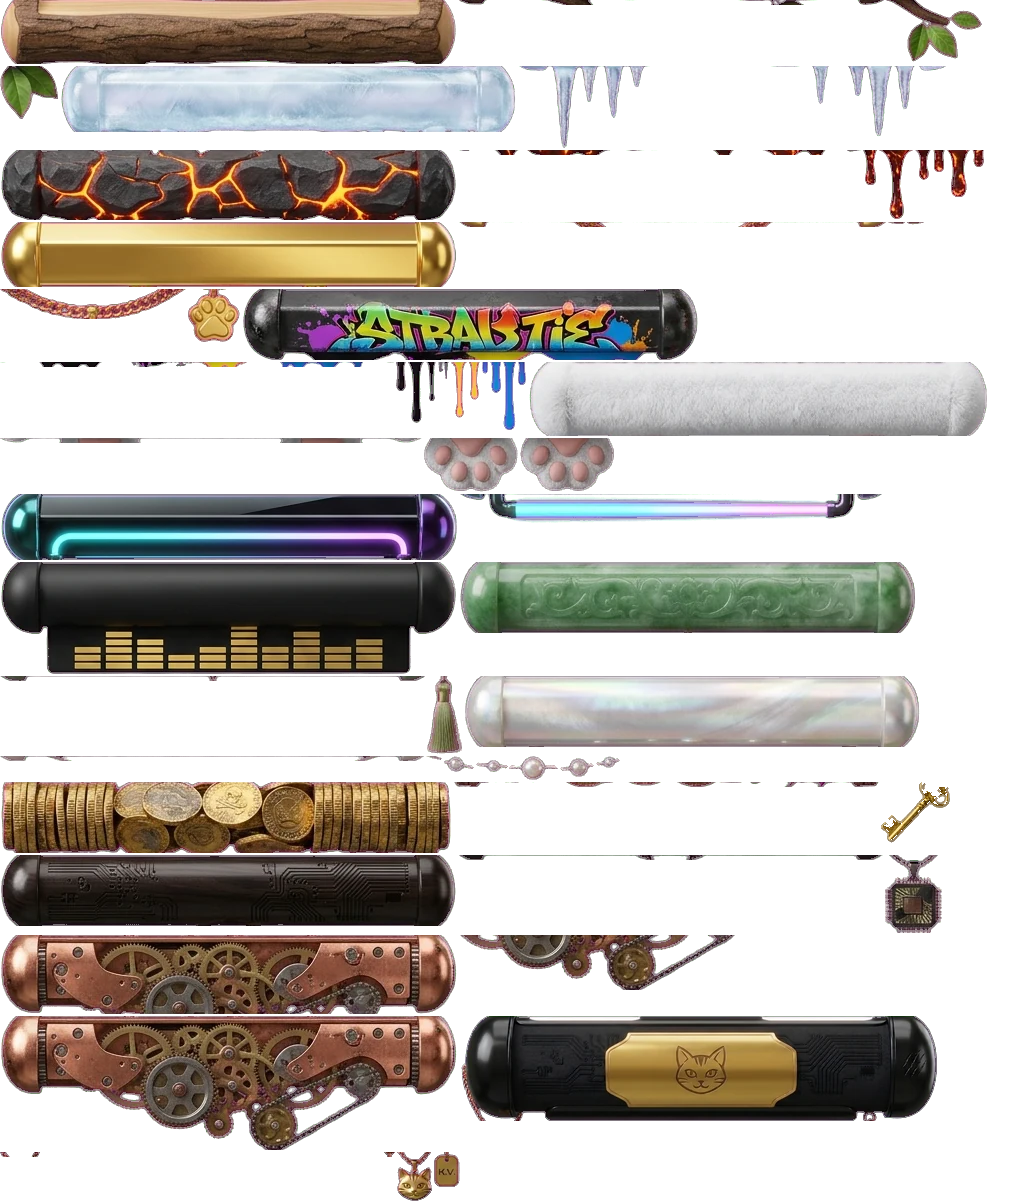
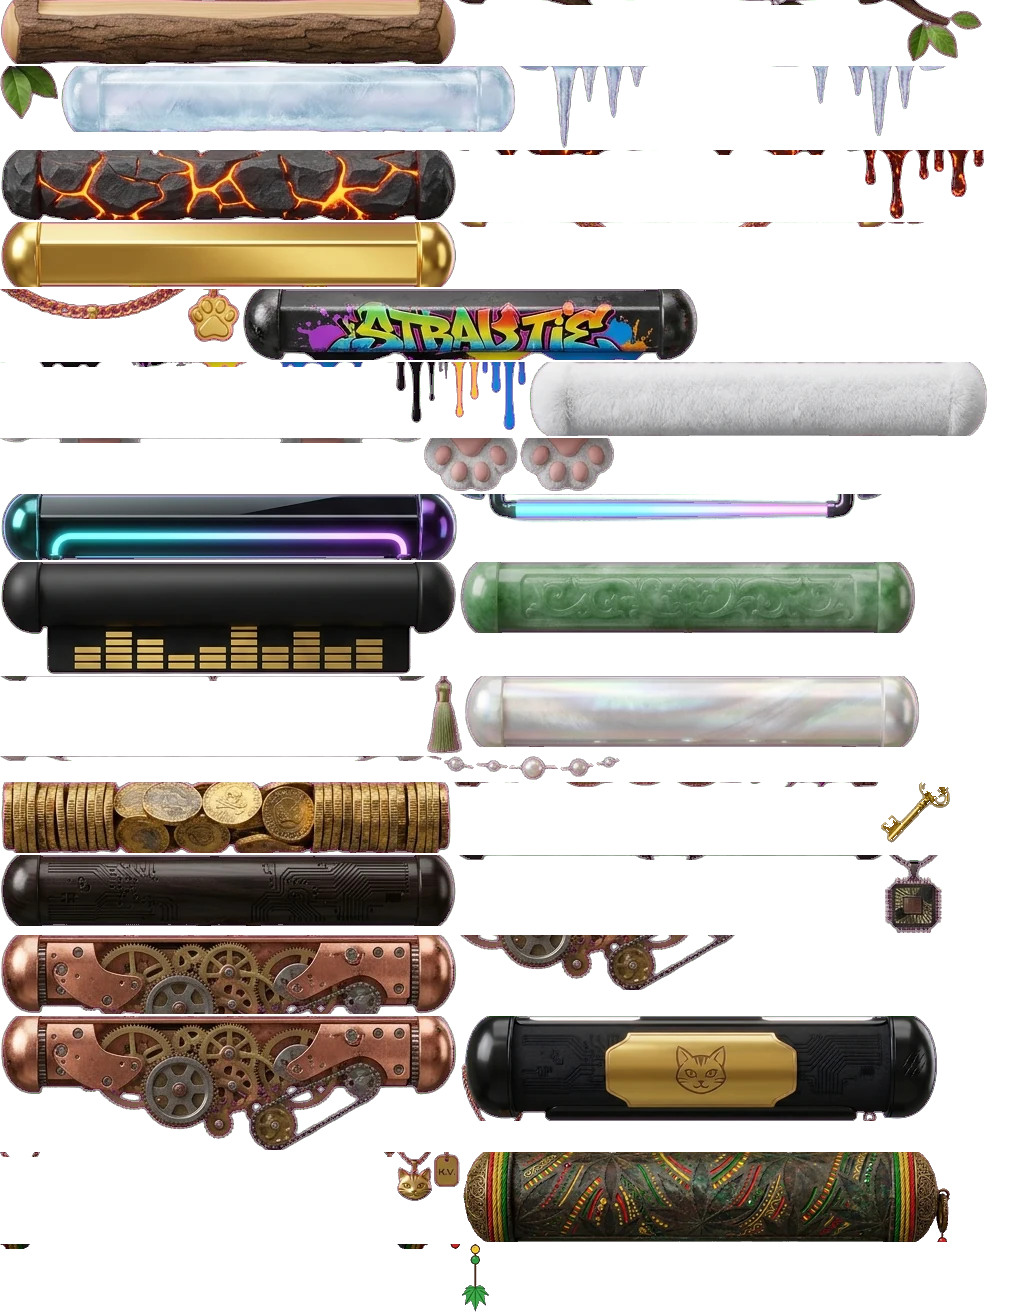
CatSmash: pálka Rasta (rasta trubka z Gemini, dokreslený přívěsek se šňůrkou, rasta korálky a lístkem, který se houpe) + vtipný automat Rasta s konopnými lístky. Odemkne ji odznak 50 výher (Zlatý drtič). Zelená kouřová stopa, rasta tečky. tools/catsmash-sprites.py bere i 4. obrázek. Texty v 5 jazycí

diff --git a/src/main/webapp/js/catsmash/data.js b/src/main/webapp/js/catsmash/data.js
@@ -52,6 +52,7 @@
     vetev: { mode: 'swing', damp: 3.2, stiff: 55, push: 0.55 },
     lava: { mode: 'sway', damp: 7, stiff: 6, push: 0.3, drip: 'lava', every: [900, 2600] },
     retez: { mode: 'swing', damp: 1.1, stiff: 0, push: 1 },
+    ganja: { mode: 'swing', damp: 1.6, stiff: 8, push: 0.9 },
     graffiti: { mode: 'sway', damp: 6, stiff: 10, push: 0.3, drip: 'paint', every: [1800, 4200] },
     plys: { mode: 'leg', damp: 2.4, stiff: 16, push: 0.8, leg: 28 },
     jadeit: { mode: 'swing', damp: 1.6, stiff: 0, push: 1 },
@@ -75,6 +76,9 @@
     lava: [{ line: ['#ffb02e', '#ff4a00'], w: 2.6, kind: 'smooth', emit: 'ember', rate: 22 },
       { line: ['#ff8a1a', '#b32400'], w: 2.2, kind: 'wave', emit: 'lavaDrop', rate: 8 },
       { line: ['#ffd36b', '#ff6a00'], w: 1.6, kind: 'zigzag', emit: 'smoke', rate: 10 }],
+    ganja: [{ line: ['#7fd36b', '#2f7a2a'], w: 2.4, kind: 'wave', emit: 'smoke', rate: 12 },     // zelený kouř
+      { line: ['#d62a1e', '#ffd23f'], w: 1.6, kind: 'dots', emit: 'smoke', rate: 6 },           // rasta tečky
+      { line: ['#ffd23f', '#3fbf4f'], w: 1.6, kind: 'helix', emit: 'tornado', rate: 8 }],
     retez: [{ line: ['#ffe27a', '#b8860b'], w: 2.2, kind: 'smooth', emit: 'goldSpark', rate: 20 },
       { line: ['#ffd23f', '#8f6600'], w: 1.4, kind: 'dots', emit: 'pawPrint', rate: 5 },
       { line: ['#fff1a8', '#c99a12'], w: 1.4, kind: 'helix', emit: 'goldSpark', rate: 12 }],

diff --git a/src/main/webapp/js/catsmash/hra.js b/src/main/webapp/js/catsmash/hra.js
@@ -1391,6 +1391,7 @@
       { b: 'comeback', img: 'lava', pad: ['#5a5550', '#1c1a18'], rim: '#ff8a2a', glow: 'rgba(255, 110, 20, .95)', trail: '#ff6a1a' },
       { b: 'clean', img: 'retez', pad: ['#ffe27a', '#a67c00'], rim: '#ffd23f', glow: 'rgba(255, 210, 63, 1)', trail: '#e6b730' },
       { b: 'angry', img: 'neon', pad: ['#2a2a35', '#08080c'], rim: '#7df9ff', glow: 'rgba(200, 110, 255, .95)', trail: '#b46bff' },
+      { b: 'wins50', img: 'ganja', pad: ['#4f7a3a', '#1f3a17'], rim: '#ffd23f', glow: 'rgba(110, 210, 90, .9)', trail: '#7fd36b' },
       { b: 'wins100', img: 'kola', pad: ['#e0a36a', '#7a4320'], rim: '#e0a36a', glow: 'rgba(224, 150, 90, .9)', trail: '#c9844a' }
     ];
     SKINS.forEach(function (s) { s.id = s.id || s.img; s.ok = function () { return hasBadge(s.b); }; });

diff --git a/src/main/webapp/js/lines/catsmash-uk.js b/src/main/webapp/js/lines/catsmash-uk.js
@@ -82,6 +82,7 @@ window.KEVIN_LINES.uk.pong = {
     "Лава",
     "Ланцюжок з лапкою",
     "Неонова трубка",
+    "Раста",
     "Механізм"
   ],
   "skinLock": [
@@ -183,6 +184,7 @@ window.KEVIN_LINES.uk.pong = {
   ],
   "badgeNoReward": "поки без нагороди",
   "rewards": {
+    "wins50": "ракетка Раста й автомат Раста",
     "close": "фон Захід сонця, ракетка Перли, м’ячик Перлина",
     "loyal": "фон Чарівний ліс, ракетка Нефрит, м’ячик Нефритовий",
     "fast": "фон Космос",

diff --git a/src/main/webapp/js/lines/catsmash-vi.js b/src/main/webapp/js/lines/catsmash-vi.js
@@ -82,6 +82,7 @@ window.KEVIN_LINES.vi.pong = {
     "Dung nham",
     "Dây chuyền chân mèo",
     "Ống neon",
+    "Rasta",
     "Bánh răng"
   ],
   "skinLock": [
@@ -183,6 +184,7 @@ window.KEVIN_LINES.vi.pong = {
   ],
   "badgeNoReward": "chưa có phần thưởng",
   "rewards": {
+    "wins50": "vợt Rasta và máy Rasta",
     "close": "nền Hoàng hôn, vợt Ngọc trai, bóng Ngọc trai",
     "loyal": "nền Rừng phép thuật, vợt Ngọc bích, Bóng ngọc bích",
     "fast": "nền Vũ trụ",

diff --git a/src/main/webapp/js/lines/catsmash-cs.js b/src/main/webapp/js/lines/catsmash-cs.js
@@ -82,6 +82,7 @@ window.KEVIN_LINES.cs.pong = {
     "Láva",
     "Řetěz s tlapkou",
     "Neonová trubice",
+    "Rasta",
     "Strojovna"
   ],
   "skinLock": [
@@ -183,6 +184,7 @@ window.KEVIN_LINES.cs.pong = {
   ],
   "badgeNoReward": "zatím bez odměny",
   "rewards": {
+    "wins50": "pálka Rasta a automat Rasta",
     "close": "pozadí Západ slunce, pálka Perly, míček Perla",
     "loyal": "pozadí Kouzelný les, pálka Jadeit, míček Jadeitová koule",
     "fast": "pozadí Vesmír",

diff --git a/src/main/webapp/js/lines/catsmash-de.js b/src/main/webapp/js/lines/catsmash-de.js
@@ -82,6 +82,7 @@ window.KEVIN_LINES.de.pong = {
     "Lava",
     "Pfotenkette",
     "Neonröhre",
+    "Rasta",
     "Uhrwerk"
   ],
   "skinLock": [
@@ -183,6 +184,7 @@ window.KEVIN_LINES.de.pong = {
   ],
   "badgeNoReward": "noch ohne Belohnung",
   "rewards": {
+    "wins50": "Schläger Rasta und Automat Rasta",
     "close": "Hintergrund Sonnenuntergang, Schläger Perlen, Ball Perle",
     "loyal": "Hintergrund Zauberwald, Schläger Jade, Ball Jadekugel",
     "fast": "Hintergrund Weltall",

diff --git a/src/main/webapp/js/lines/catsmash-en.js b/src/main/webapp/js/lines/catsmash-en.js
@@ -82,6 +82,7 @@ window.KEVIN_LINES.en.pong = {
     "Lava",
     "Paw chain",
     "Neon tube",
+    "Rasta",
     "Clockwork"
   ],
   "skinLock": [
@@ -183,6 +184,7 @@ window.KEVIN_LINES.en.pong = {
   ],
   "badgeNoReward": "no reward yet",
   "rewards": {
+    "wins50": "Rasta paddle and Rasta machine",
     "close": "Sunset background, Pearls paddle, Pearl ball",
     "loyal": "Magic forest background, Jade paddle, Jade ball",
     "fast": "Space background",

diff --git a/tools/catsmash-sprites.py b/tools/catsmash-sprites.py
@@ -2,7 +2,7 @@
 # Pálku rozdělí na tělo (horní hrana = plocha, od které se míček odráží) a na to, co pod ní visí (přívěsky),
 # aby se přívěsky ve hře mohly houpat. Výstup: kevin/pong/palky.webp + palky.json a micky.webp + micky.json.
 #
-# Spuštění: python tools/catsmash-sprites.py <obrázek1.jpg> <obrázek2.jpg> <kevinova-pálka.jpg> [--nahled složka]
+# Spuštění: python tools/catsmash-sprites.py <obrázek1.jpg> <obrázek2.jpg> <kevinova-pálka.jpg> [ganja-palka.png] [--nahled složka]
 import json
 import os
 import sys
@@ -34,7 +34,8 @@ PADDLES = [
 # Kreslí se v pořadí odzadu dopředu; hra vyřízne kruh z celého obrázku pálky (full) a otočí ho.
 GEARS = {'kola': [[230, 36, 27, -1], [232, 70, 11, 1], [275, 109, 20, -1], [218, 108, 10, 1], [360, 62, 16, -1], [178, 75, 33, 1]]}
 # další obrázky s jedinou pálkou: (index obrázku, výřez x0, y0, x1, y1, id, pohyb); Kevinova pálka (3. obrázek)
-SINGLE = [(2, (20, 70, 1250, 530), 'kevin', 'swing')]
+SINGLE = [(2, (20, 70, 1250, 530), 'kevin', 'swing'),
+          (3, (40, 520, 1264, 1063), 'ganja', 'swing')]   # 4. obrázek: rasta pálka s přívěskem (kevin-reference/Kevin/ganja-palka.png)
 BALLS = [
     (0, 0, 0, 'kastan'), (0, 0, 1, 'ledovka'), (0, 0, 2, 'lavak'), (0, 0, 3, 'tlapka'),
     (0, 1, 0, 'sprej'), (0, 1, 1, 'plysak'), (0, 1, 2, 'vir'), (0, 1, 3, 'repro'),
@@ -159,7 +160,10 @@ class Atlas:
 
 
 def main():
-    srcs = [np.array(Image.open(p).convert('RGB')) for p in sys.argv[1:4] if not p.startswith('--')]
+    args = sys.argv[1:]
+    if '--nahled' in args:
+        del args[args.index('--nahled'):args.index('--nahled') + 2]
+    srcs = [np.array(Image.open(p).convert('RGB')) for p in args]
     preview = sys.argv[sys.argv.index('--nahled') + 1] if '--nahled' in sys.argv else None
     if preview:
         os.makedirs(preview, exist_ok=True)
